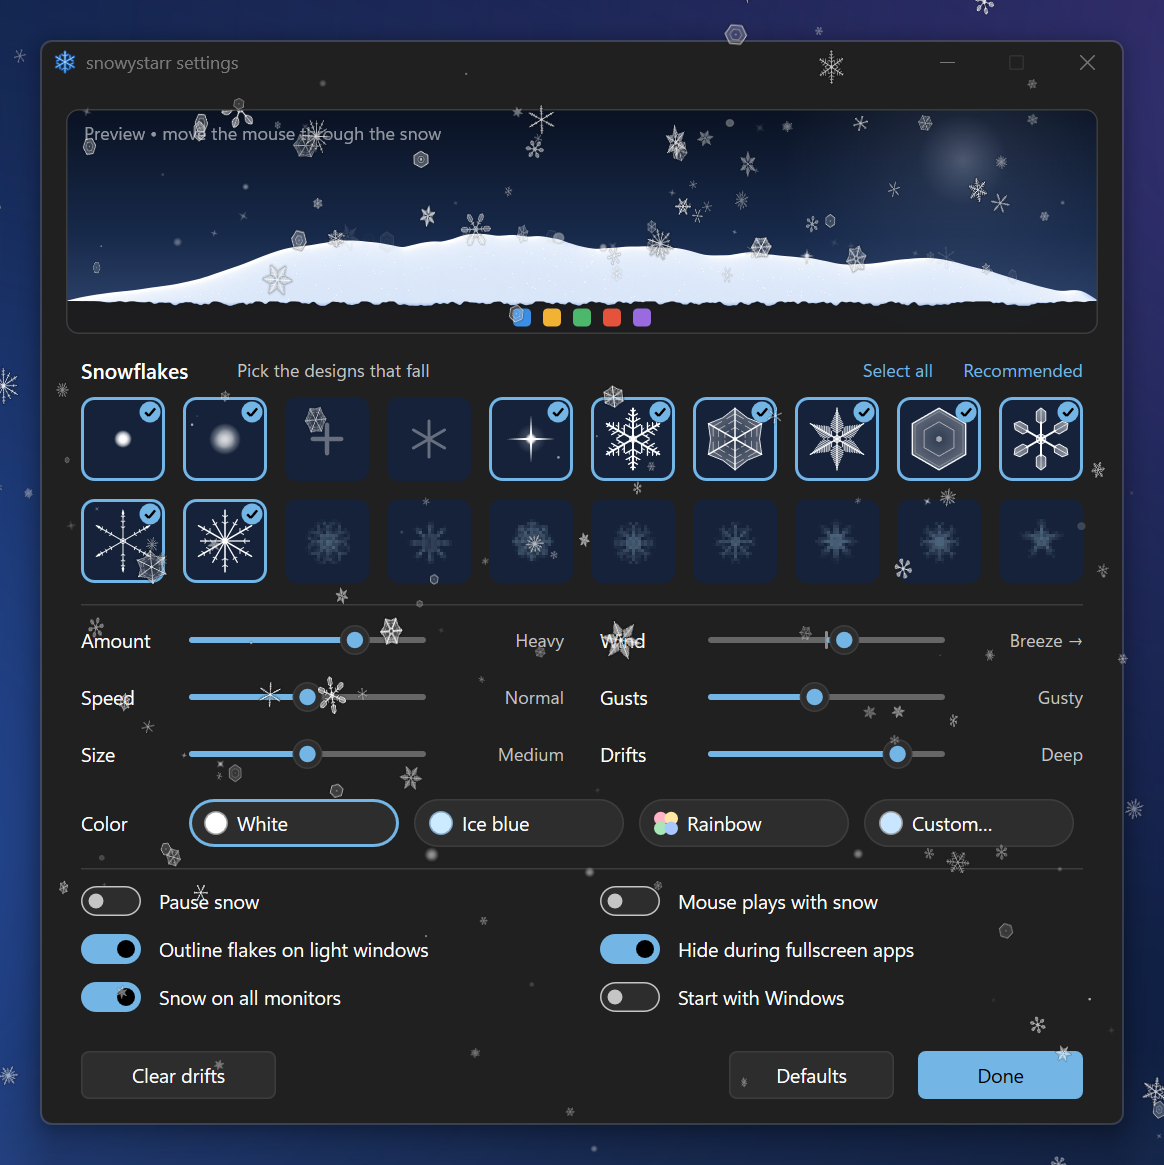
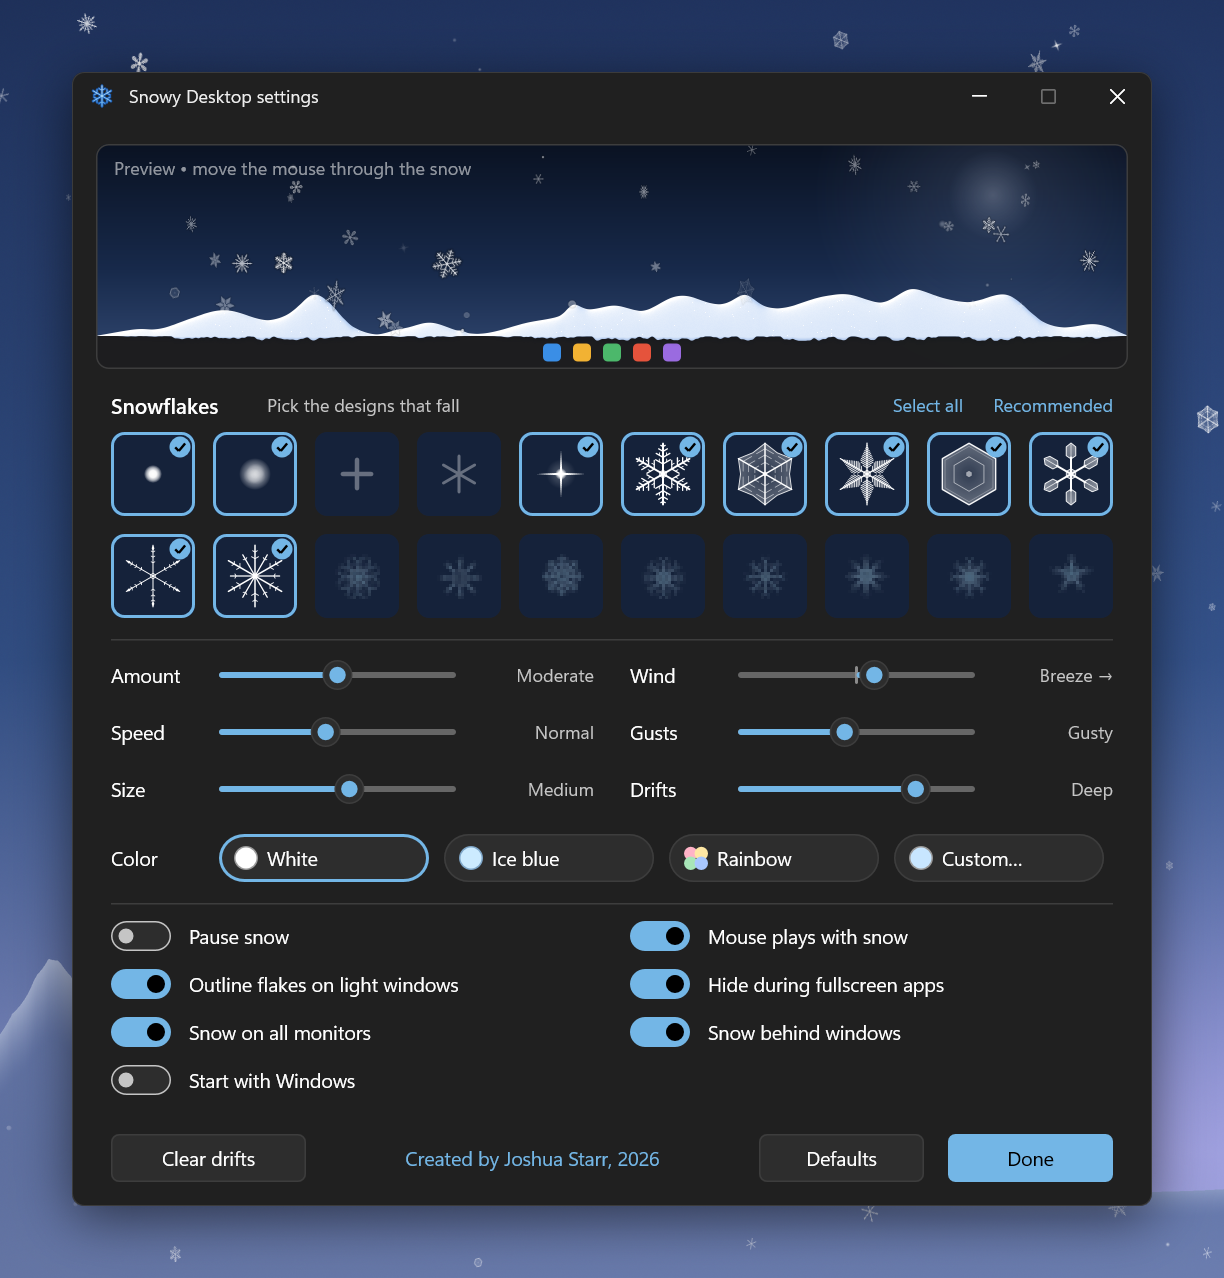
README: new screenshots
Rendered by the app's own snow engine and settings window on a staged 4K Windows 11 desktop at 150% scaling.

diff --git a/README.md b/README.md
@@ -43,7 +43,8 @@ using the mouse.
 
 Right-click the snowflake for a quick menu with presets for everything above.
 
-> Screenshots: Snowy Desktop running on Windows 11 at 150% scaling, over a plain backdrop.
+> Images: rendered by Snowy Desktop's own snow engine and settings window on a staged 4K
+> Windows 11 desktop at 150% scaling.
 
 ## Features
 
